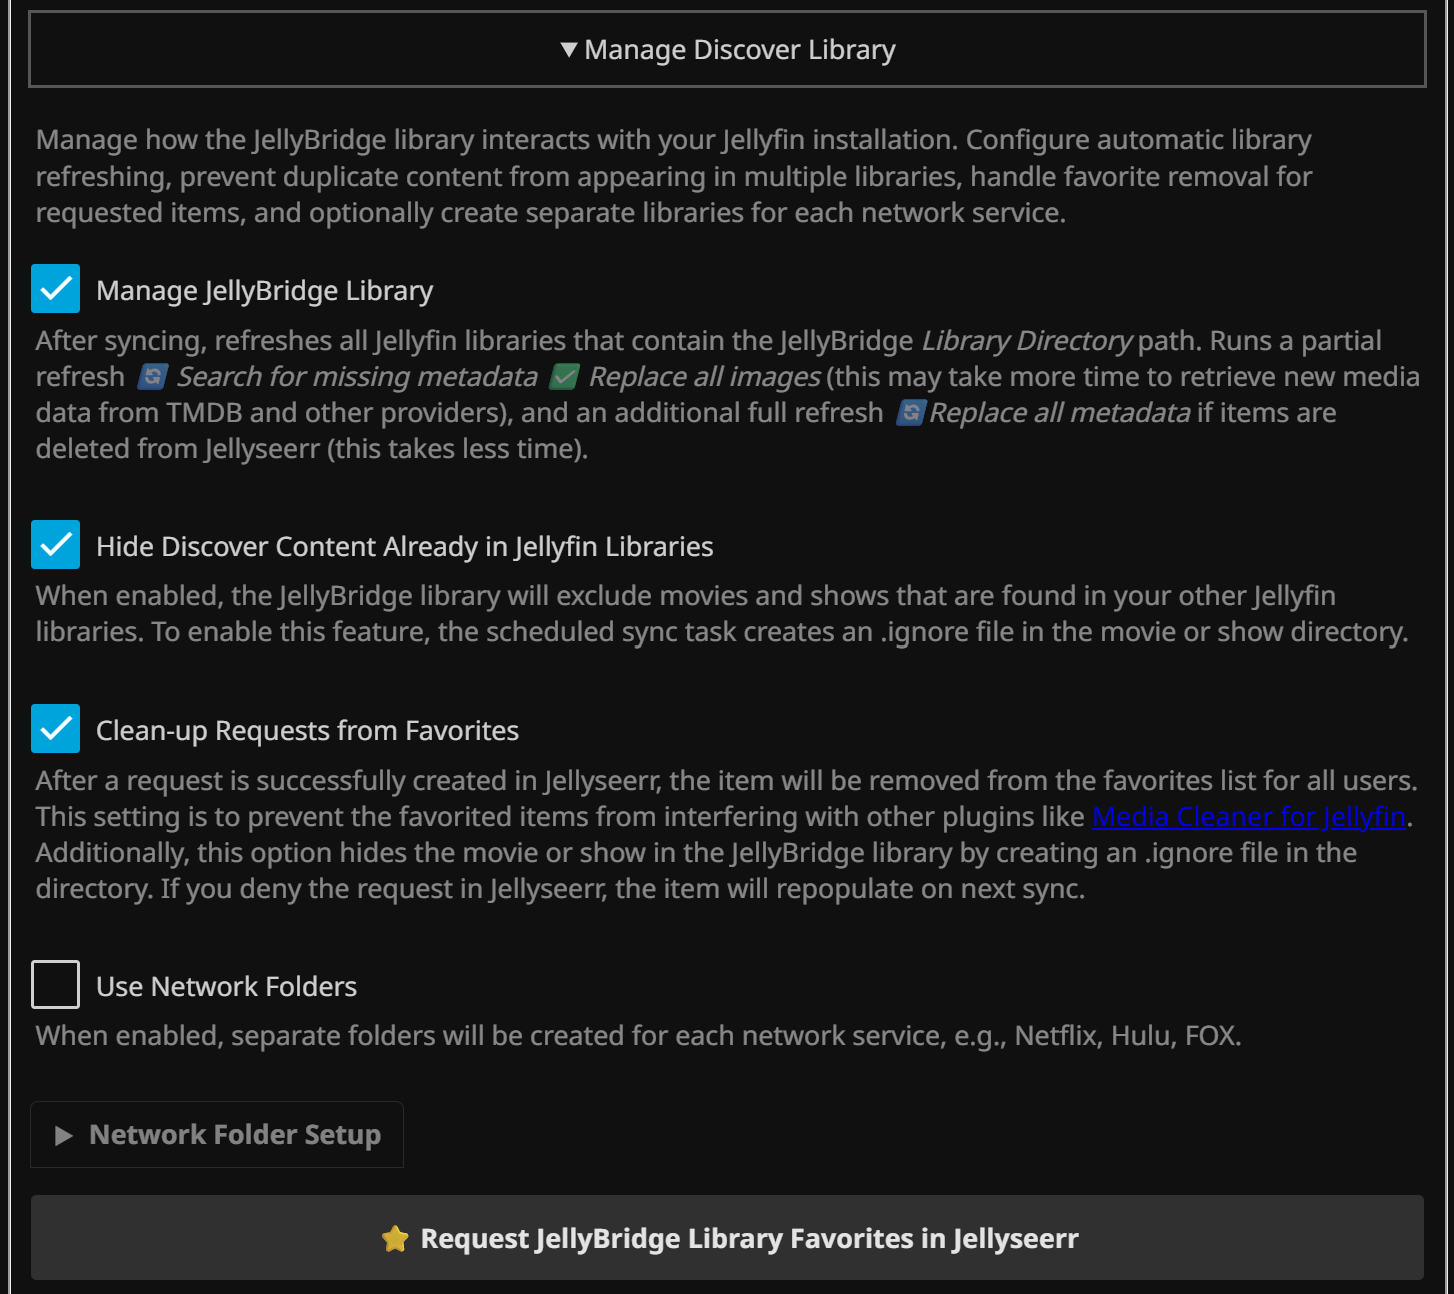
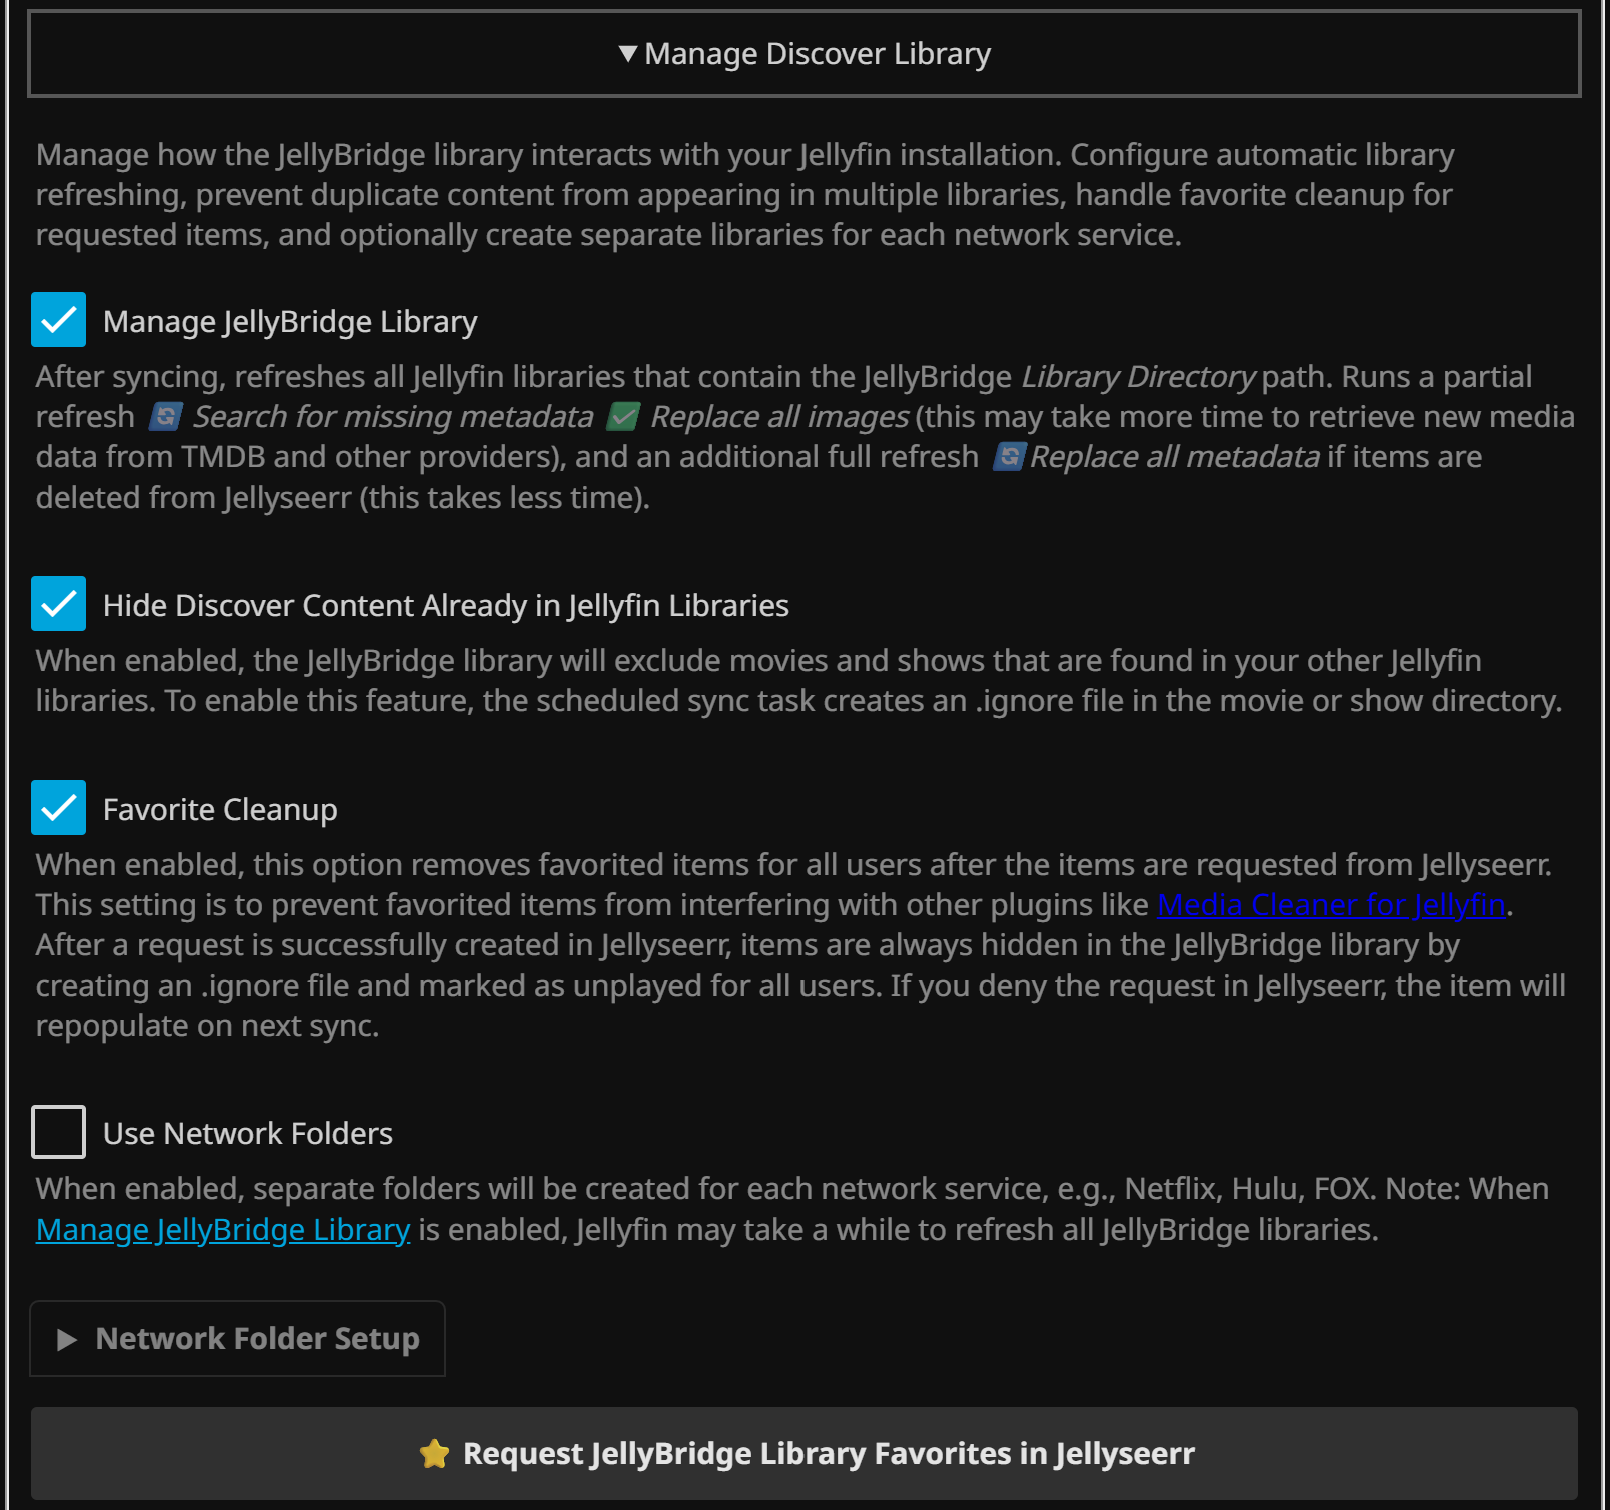
Update README Favorite Cleanup description and Manage.png screenshot

Changed region(s): [[0.0, 0.0, 1.0, 1.0]]

diff --git a/README.md b/README.md
@@ -169,7 +169,7 @@ The plugin provides a comprehensive web-based configuration interface with the f
 
 - **Manage JellyBridge Library**: Automatically refreshes all Jellyfin libraries containing the JellyBridge library directory after each sync
 - **Hide Discover Content Already in Jellyfin Libraries**: Excludes movies and shows from the JellyBridge library if they already exist in your other Jellyfin libraries
-- **Clean-up Requests from Favorites**: Hides them from the library after they've been successfully requested in Jellyseerr
+- **Favorite Cleanup**: Unfavorite items from the JellyBridge library after requesting them from Jellyseerr
 - **Use Network Folders**: Creates separate folders for each selected network service so you can map each to its own Jellyfin library
 - **Network Folder Setup**
   - **Setup Instructions**: Step-by-step guide for creating network folders and libraries
